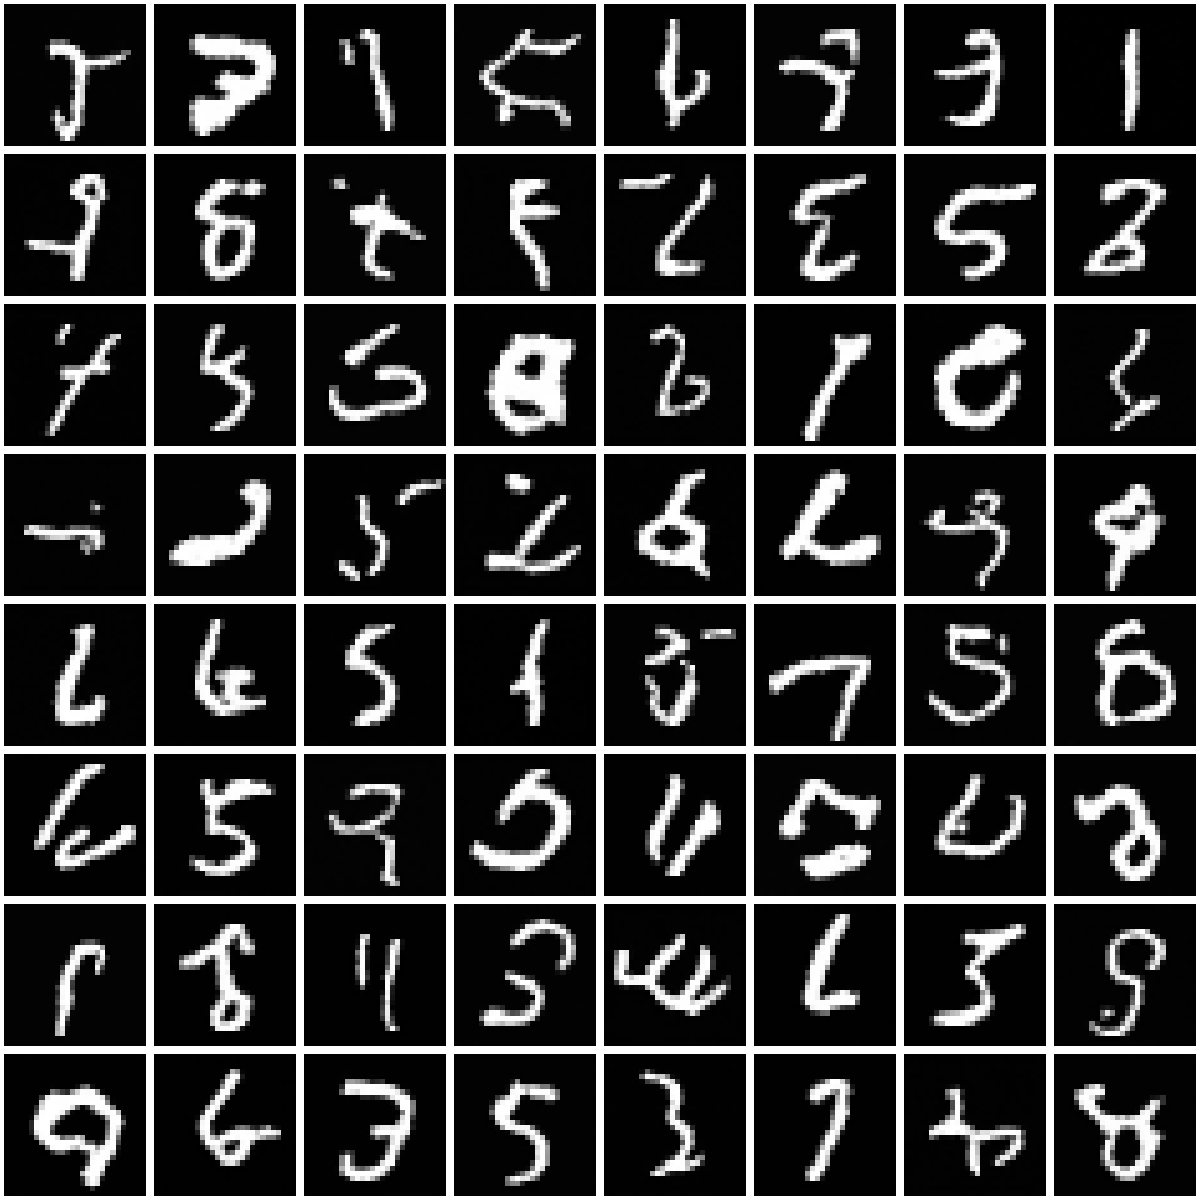
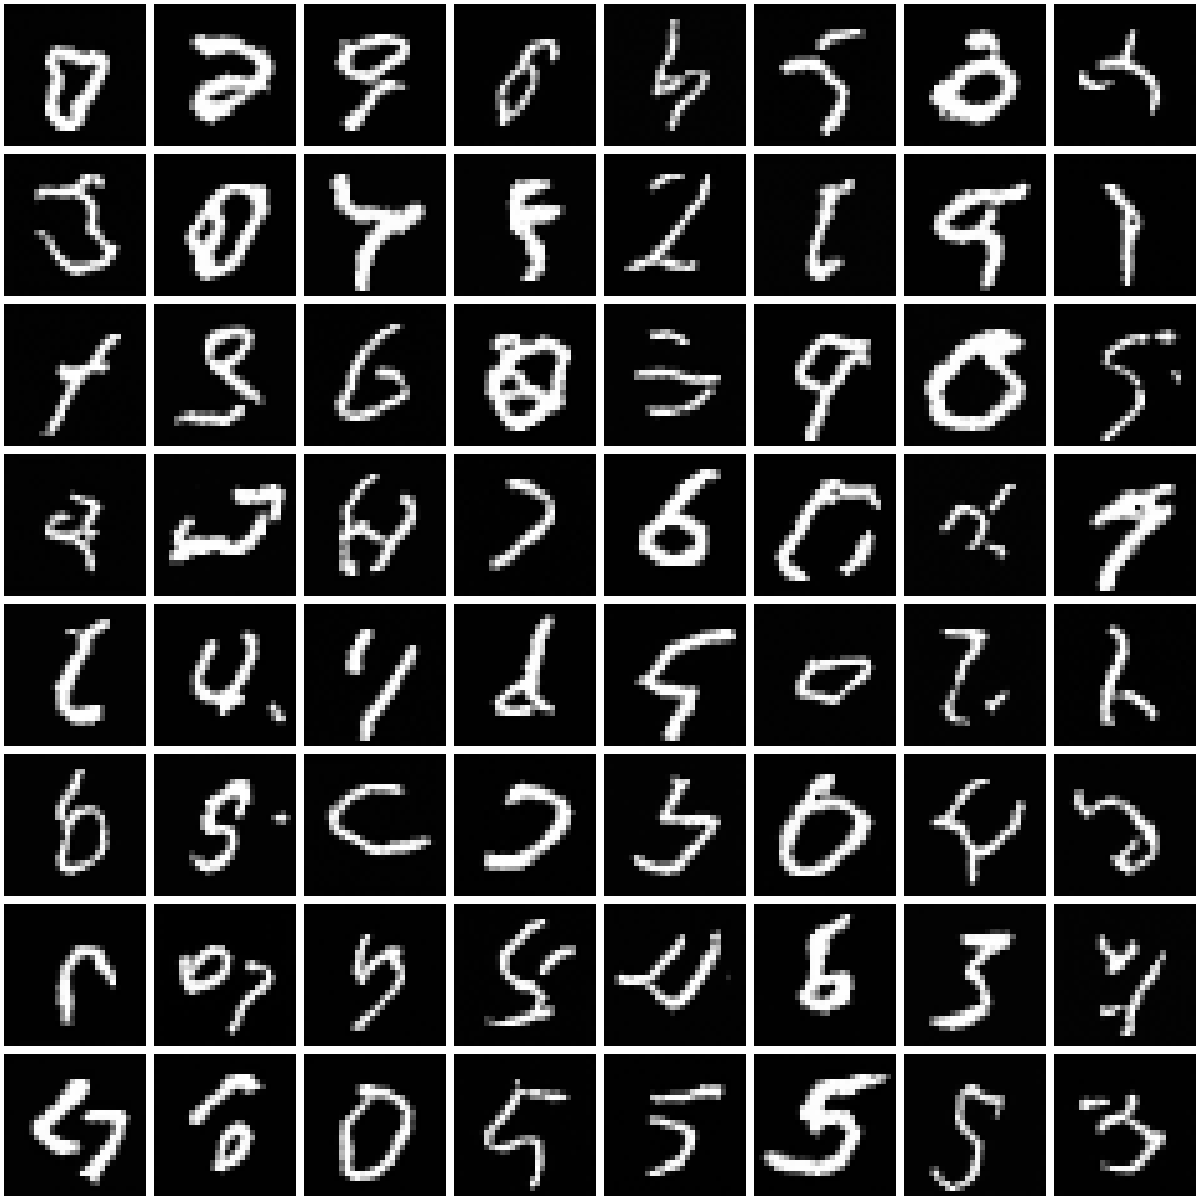
update

diff --git a/model/diffusion.py b/model/diffusion.py
@@ -41,8 +41,9 @@ class DiffusionModel():
 
     @staticmethod
     def linear_beta_schedule(timesteps):
-        beta_start = 0.0001
-        beta_end = 0.02
+        scale = 1000 / timesteps
+        beta_start = scale * 0.0001
+        beta_end = scale * 0.02
         return torch.linspace(beta_start, beta_end, timesteps)
 
     @staticmethod

diff --git a/exp/exp.py b/exp/exp.py
@@ -3,7 +3,7 @@ from time import time
 
 import torch
 import numpy as np
-from matplotlib import pyplot as plt, animation
+from matplotlib import pyplot as plt
 from torch import optim, nn
 from torch.optim.lr_scheduler import LambdaLR
 from torch.utils.data import DataLoader
